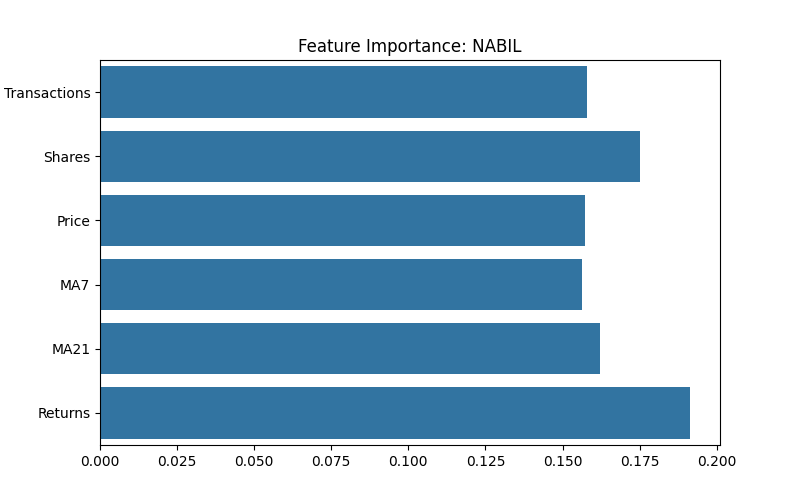
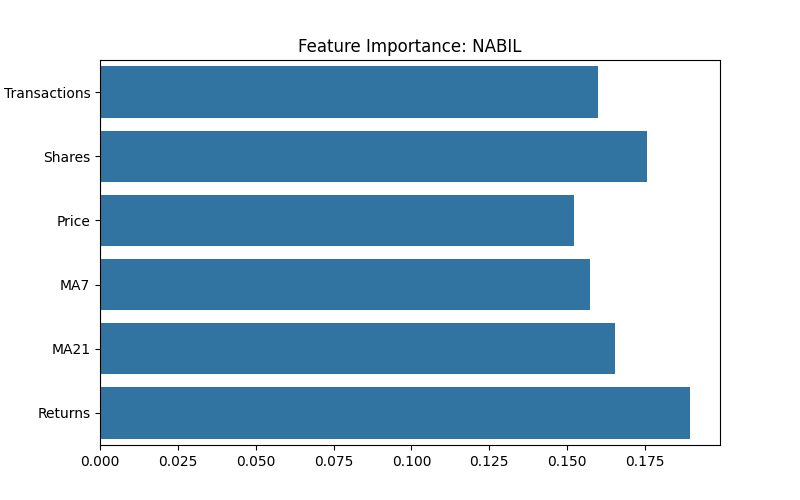
Added hyperparameter tuning

diff --git a/main.py b/main.py
@@ -53,10 +53,35 @@ def preprocess_data(file_path):
 # ==========================================================
 # TASK 3 & 4: MODEL DESIGN, TRAINING & EVALUATION
 # ==========================================================
+# def train_and_evaluate(df, stock_name):
+#     """
+#     Task 3: Algorithm - Random Forest with Class Balancing.
+#     Task 4: Evaluation using Accuracy, Precision, Recall, and F1-score.
+#     """
+#     # Features used for classification
+#     features = ['Total Transactions', 'Total Traded Shares', 'Close Price', 'MA7', 'MA21', 'Returns']
+#     X = df[features]
+#     y = df['Target']
+    
+#     # Temporal splitting (No shuffling) to simulate real-world time sequence
+#     X_train, X_test, y_train, y_test = train_test_split(X, y, test_size=0.2, shuffle=False)
+    
+#     # Model initialization with 'balanced' weights to fix "Always Upward" bias
+#     model = RandomForestClassifier(n_estimators=100, class_weight='balanced', random_state=42) #n_estimator change and check 
+#     model.fit(X_train, y_train)
+    
+#     # Generate predictions for evaluation
+#     y_pred = model.predict(X_test)
+#     acc = accuracy_score(y_test, y_pred)
+#     report = classification_report(y_test, y_pred)
+    
+#     return model, acc, report, X_test, y_test
+
 def train_and_evaluate(df, stock_name):
     """
     Task 3: Algorithm - Random Forest with Class Balancing.
     Task 4: Evaluation using Accuracy, Precision, Recall, and F1-score.
+    + Simple hyperparameter tuning on n_estimators.
     """
     # Features used for classification
     features = ['Total Transactions', 'Total Traded Shares', 'Close Price', 'MA7', 'MA21', 'Returns']
@@ -64,10 +89,41 @@ def train_and_evaluate(df, stock_name):
     y = df['Target']
     
     # Temporal splitting (No shuffling) to simulate real-world time sequence
-    X_train, X_test, y_train, y_test = train_test_split(X, y, test_size=0.2, shuffle=False)
+    X_train, X_test, y_train, y_test = train_test_split(
+        X, y, test_size=0.2, shuffle=False
+    )
     
-    # Model initialization with 'balanced' weights to fix "Always Upward" bias
-    model = RandomForestClassifier(n_estimators=100, class_weight='balanced', random_state=42) #n_estimator change and check 
+    # ---------------- HYPERPARAMETER TUNING (n_estimators) ----------------
+    n_values = [50, 100, 150, 200]   # you can change this list if you want
+    best_n = None
+    best_acc = 0.0
+
+    print(f"\n>>> Tuning n_estimators for {stock_name}")
+    for n in n_values:
+        temp_model = RandomForestClassifier(
+            n_estimators=n,
+            class_weight='balanced',
+            random_state=42
+        )
+        temp_model.fit(X_train, y_train)
+        temp_pred = temp_model.predict(X_test)
+        temp_acc = accuracy_score(y_test, temp_pred)
+
+        print(f"{stock_name} | n_estimators = {n:3d} -> Accuracy = {temp_acc:.4f}")
+
+        if temp_acc > best_acc:
+            best_acc = temp_acc
+            best_n = n
+
+    print(f"Best n_estimators for {stock_name}: {best_n} (Accuracy = {best_acc:.4f})")
+    # ----------------------------------------------------------------------
+
+    # Final model using the best n_estimators
+    model = RandomForestClassifier(
+        n_estimators=best_n,
+        class_weight='balanced',
+        random_state=42
+    )
     model.fit(X_train, y_train)
     
     # Generate predictions for evaluation
@@ -163,7 +219,7 @@ if __name__ == "__main__":
             print(report)
             
             #VISUAL
-            generate_visual_evidence(model, X_test, y_test, stock_name) 
+            # generate_visual_evidence(model, X_test, y_test, stock_name) 
         else:
             print(f"Error: {file_name} not found.")
 
